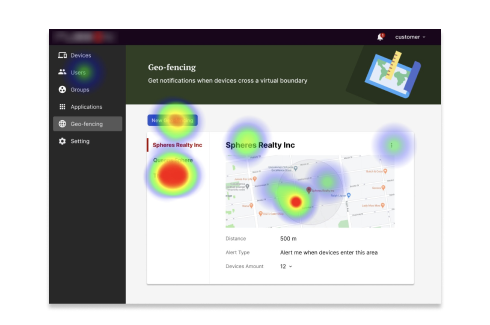
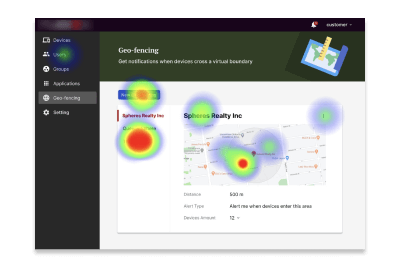
abtesting sm png

diff --git a/works/cloud_abtesting.html b/works/cloud_abtesting.html
@@ -95,7 +95,7 @@
 			<div class="container">
 				<h1>A/B Testing: Geo-fence</h1>
 				<div class="webintro">
-					<p>Users can remotely organize, update, and monitor their devices at scale.</p>
+					<p>Use A/B testing to compare two design versions.</p>
 
 				</div>
 				<img src="../img/sm/md_abtesting.png" alt="">
@@ -158,7 +158,8 @@
 				<img src="../img/portfolio/abtesting/5-0-1_Geo-fencing_v2.png" alt="" class="mb-3"
 					style="box-shadow: 0 0 8px rgba(0,0,0,.2);">
 
-				<img src="../img/portfolio/abtesting/5-0-1_Geo-fencing.png" alt="" style="box-shadow: 0 0 8px rgba(0,0,0,.2);">
+				<img src="../img/portfolio/abtesting/5-0-1_Geo-fencing.png" alt=""
+					style="box-shadow: 0 0 8px rgba(0,0,0,.2);">
 
 
 				<div class="caption mt-2">Design A and Design B</div>
@@ -286,7 +287,8 @@
 			<div class="list-img d-md-none">
 
 
-				<img src="../img/portfolio/abtesting/heatA.jpg" alt="" class="mb-3" style="box-shadow: 0 0 8px rgba(0,0,0,.2);">
+				<img src="../img/portfolio/abtesting/heatA.jpg" alt="" class="mb-3"
+					style="box-shadow: 0 0 8px rgba(0,0,0,.2);">
 
 				<img src="../img/portfolio/abtesting/heatB.jpg" alt="" style="box-shadow: 0 0 8px rgba(0,0,0,.2);">
 
@@ -504,7 +506,8 @@
 					<div class=" col col-12 col-md-6 mb-5 mb-md-0">
 						<img src="../img/portfolio/abtesting/conclusionA.png" alt="" style="width: 100%;">
 
-						<div class=" caption mt-2">(A) The presentation of devices in Design B is not clear enough.</div>
+						<div class=" caption mt-2">(A) The presentation of devices in Design B is not clear enough.
+						</div>
 					</div>
 					<div class="col col-12 col-md-6">
 						<img src="../img/portfolio/abtesting/conclusionB.png" alt="" style="width: 100%;">
@@ -539,10 +542,12 @@
 				<h3>Reference</h3>
 
 				<p>
-					Design A: <a href="https://projects.invisionapp.com/share/FWX5YJDHX6Y#/screens/416499192">Prototype</a>,
+					Design A: <a
+						href="https://projects.invisionapp.com/share/FWX5YJDHX6Y#/screens/416499192">Prototype</a>,
 					<a href="https://maze.design/r/7c89cafyk9ut14px#mission-1-screen-2">Maze Report</a>
 					<br>
-					Design B: <a href="https://projects.invisionapp.com/share/FWX5YJDHX6Y#/screens/416493942">Prototype</a>,
+					Design B: <a
+						href="https://projects.invisionapp.com/share/FWX5YJDHX6Y#/screens/416493942">Prototype</a>,
 					<a href="https://maze.design/r/7c89cafyk9ut0oqv">Maze Report</a>
 					<br>
 					Full Version Report: <a